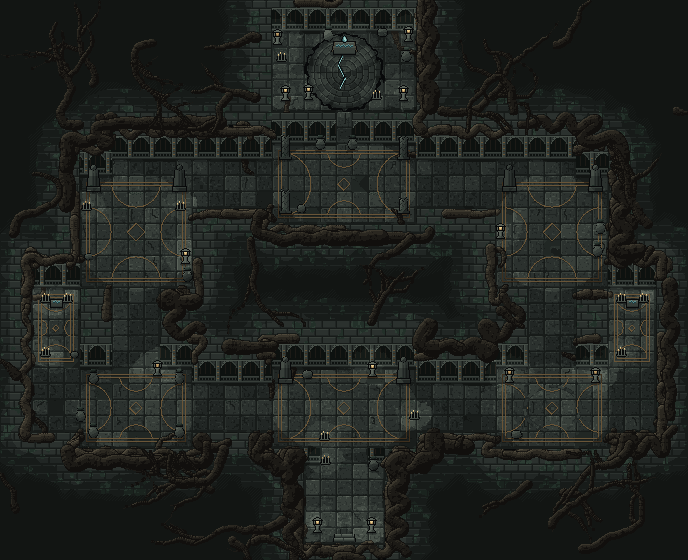
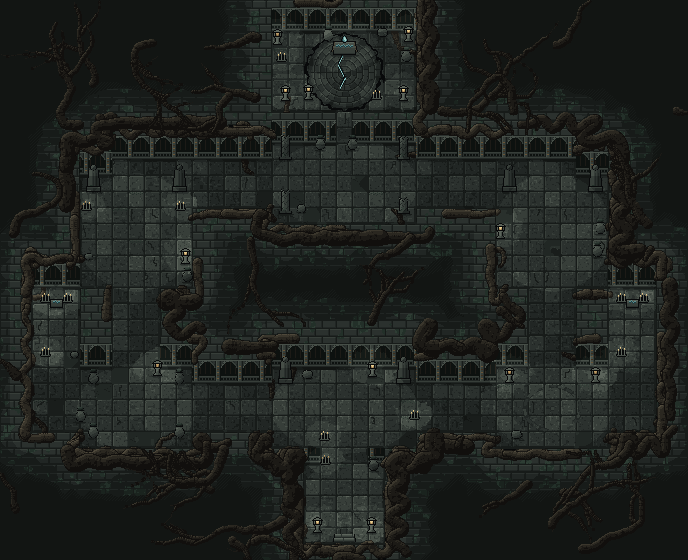
탐험 맵: 방 바닥의 농구 코트 같은 선 무늬 제거
전투·정예·선택 방마다 그리던 사각 테두리+호(액트 2·9)와 동심원(액트 5·10)을 뺐다. 액트 6은 네잎 새김만 남기고
방 둘레 사각 테두리를 뺐다. 이 무늬들은 난수를 쓰지 않아 다른 배치는 그대로다(다시 그린 그림은 이 다섯 지도뿐).

diff --git a/docs/act-maps-20260929.md b/docs/act-maps-20260929.md
@@ -8,15 +8,15 @@
 | 액트 | 디오라마에서 가져온 것 | 맵에서의 모양 |
 |---|---|---|
 | 1 뿌리끝 성소 | 칙칙한 올리브 흙, 굵은 뿌리, 창백한 버섯·촛불, 낙엽, 이끼 웅덩이 | 무너진 판석 + 방 가운데서 굽이쳐 뻗는 뿌리, 흙벽과 뿌리 엮임 |
-| 2 가지치기의 중정 | 푸른 회녹색 판석, 금 상감, 고딕 아치와 난간, 늘어진 뿌리 | 칸 맞춤 판석 + 금빛 테두리·호 무늬, 북쪽 벽은 아치 줄 |
+| 2 가지치기의 중정 | 푸른 회녹색 판석, 금 상감, 고딕 아치와 난간, 늘어진 뿌리 | 칸 맞춤 판석, 북쪽 벽은 아치 줄 |
 | 3 허공뿌리 현수림 | 바랜 뼈색 판석과 뿌리, 아래는 허공 | 창백한 판석 발판, 널다리, 가장자리를 감은 바랜 뿌리 |
 | 4 갈림뿌리 미궁 | 적갈색 서재 겸 연금실, 아치 문·선반·물약·방패·등, X자 뿌리 | 방마다 X자 뿌리, 북쪽 벽은 나무 벽에 문·물약 선반·방패·벽등 |
-| 5 지주근의 침묵 성소 | 갈색 석조, 새긴 원, 난간과 아치 문, 검은 물 | 판석 + 옅은 동심원, 난간 벽과 아치 문, 무덤돌·촛불 |
-| 6 무너진 중정 | 어두운 갈색 판석, 무너진 난간, 부러진 흰 자작나무 | 네잎 무늬 판석, 난간 벽 앞에 선 흰 자작나무 줄기 |
+| 5 지주근의 침묵 성소 | 갈색 석조, 새긴 원, 난간과 아치 문, 검은 물 | 판석, 난간 벽과 아치 문, 무덤돌·촛불 |
+| 6 무너진 중정 | 어두운 갈색 판석, 무너진 난간, 부러진 흰 자작나무 | 네잎 새김 판석(테두리 없음), 난간 벽 앞에 선 흰 자작나무 줄기 |
 | 7 말라가는 큰 줄기 | 해살처럼 퍼진 널빤지, 줄기 벽, 선반 버섯, 등 | 방마다 방사형 널, 나이테 벽에 선반 버섯·매단 등 |
 | 8 끝없는 장막의 줄기 | 보랏빛 판석, 널빤지 고리, 등나무꽃 | 판석을 두른 널 고리, 등나무꽃 장막 벽, 허공에 늘어진 꽃줄기 |
-| 9 비탄의 교차 | 자줏빛 돌바닥의 호 무늬, 뿌리 난간, 분홍 꽃 | 옅은 호 무늬 판석, 뿌리 난간 벽, 자줏빛 수관과 분홍 꽃 |
-| 10 합일의 차륜 | 흑요석 판석, 금빛 동심원, 별 박힌 허공, 첨탑 | 금빛 동심원 판석, 흑요석 벽의 금선과 첨탑, 별 허공 |
+| 9 비탄의 교차 | 자줏빛 돌바닥의 호 무늬, 뿌리 난간, 분홍 꽃 | 판석, 뿌리 난간 벽, 자줏빛 수관과 분홍 꽃 |
+| 10 합일의 차륜 | 흑요석 판석, 금빛 동심원, 별 박힌 허공, 첨탑 | 판석(금빛 고리는 표지물 한두 곳), 흑요석 벽의 금선과 첨탑, 별 허공 |
 
 색은 디오라마에서 뽑아 단계표로 만들었다(`scripts/act-maps/palettes.cjs`). 어둡고 채도 낮은 바탕에 액트마다 강조색 하나.
 건축물 액트(2·4·5·6·10)는 칸 경계를 그대로 써서 벽이 곧고, 나머지는 예전처럼 둥글고 삐뚤다.
@@ -30,6 +30,10 @@
   제 외곽선을 그대로 가진다(작아서 선이 있어야 읽힌다).
 - **금빛 선**: 금 상감을 한 단계 낮추고(`warm` 2→1) 아래 그늘도 한 단계만. 액트 2의 이중 호는 한 줄로,
   동심원(액트 5·10)의 바큇살 눈금은 뺐다. 액트 2 기둥의 금 박음, 액트 10 흑요석 벽의 이중 금선도 한 단계씩 낮췄다.
+- **방 바닥 선 무늬 제거(2026-09-30)**: 전투·정예·선택 방마다 그리던 사각 테두리+호(액트 2·9)와 동심원(액트 5·10)은
+  농구 코트처럼 보이고 너무 자주 나와 뺐다(`themes.cjs`의 `ornament: null`). 액트 6은 네잎 새김만 남기고 방 둘레 사각
+  테두리를 뺐다(`look.frame: false`). 이 무늬들은 난수를 쓰지 않아 다른 배치는 한 도트도 바뀌지 않았다
+  (다시 그린 그림은 액트 2·5·6·9·10 지도뿐, 관문 그림과 다른 액트는 그대로).
 - **장식 덜기**: 바닥 티끌 셋에 하나, 벽 위 이끼·버섯 점과 늘어진 줄기 넷에 하나, 바닥 뿌리·웅덩이·흩뿌린 소품
   다섯에 하나를 뺀다. 뺄 것도 **그려서 버리는 캔버스**(`ghost`, `paint.cjs`)에 그려 난수를 똑같이 소비하므로
   남은 소품 자리·뿌리 모양·방 꾸미기가 첫 판과 같다. 뺀 등불은 빛도 내지 않는다.
